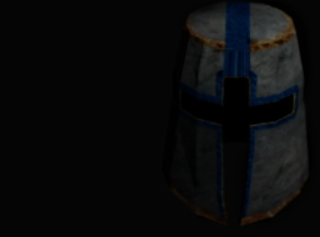
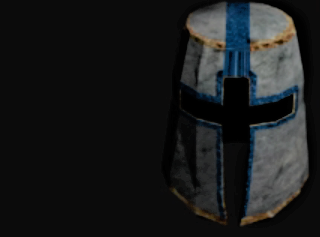
more changes

Changed region(s): [[0.5625, 0.0, 0.9688, 0.9747], [0.5625, 0.5021, 0.7188, 0.9451], [0.5312, 0.7975, 0.5625, 0.827]]

diff --git a/home.html b/home.html
@@ -12,7 +12,7 @@
 		<section class="nav-bar">
 		  <div class="nav-container">
 			<div class="brand">
-			  <a href="home.html"><img src="Knight helmet1.png"></a>
+			  <a href="home.html"><img src="Knight helmet 2.png"></a>
 			</div>
 			<nav>
 			  <div class="nav-mobile"><a id="nav-toggle" href="#!"><span></span></a></div>

diff --git a/style.css b/style.css
@@ -5,7 +5,7 @@ body {
 
 .nav-bar {
   height: 70px;
-  background: #545454;
+  background: #000000;
   position: -webkit-sticky; /* Safari */
   position: sticky;
   top: 0;
@@ -26,7 +26,7 @@ body {
 }
 .brand a,
 .brand a:visited {
-  color: #000000;
+  color: #ffffff;
   text-decoration: none;
 }
  
